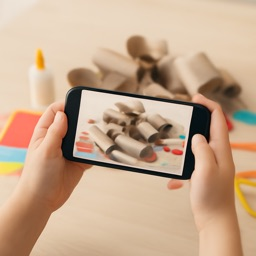
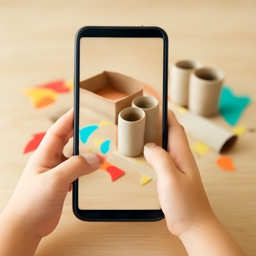
Give the front door some colour, and fix a three-legged pair of scissors
The scissors had three blades. The old path drew two crossing strokes
and then a third running off to the right, which no pair of scissors
has. It is two handles, two blades and a pivot now.

"What can we make?" is the first thing a seven-year-old sees and it
was set like a form field. Each word now has its own colour and its own
small tilt, and they drop in one after another. That needed two more
colours than pink: the amber and teal tokens were sitting unused and
neither can be read on white — 2.0:1 and 2.6:1 — so each gained an ink
variant of the same hue dark enough to carry text. The sentence under
it was written for a parent; it is shorter and plainer now.

TAKE and PICK carry photographs instead of line icons: one of a phone
being held over a table of odds and ends, one of a phone showing a
column of photographs to choose from. In the first set the phone was
turned on its side in every shot, which is not how anyone holds one to
photograph a table, so all three phone pictures were made again upright
and with craft materials on the screen rather than anything generic.

All of it is static and made once — 120KB of JPEG for six pictures, no
API calls at run time.

diff --git a/src/styles/make.css b/src/styles/make.css
@@ -23,8 +23,13 @@
   --edge: #b00b80;
   --hair: #f0d7e6;         /* magenta, most of the way to white */
 
+  /* Two more colours, so the app is not only pink. The bright pair are for
+     fills; the ink pair are the same hues dark enough to read as text on
+     white — #12b3a4 is 2.6:1 there and #f5a623 only 2.0:1. */
   --amber: #f5a623;
+  --amber-ink: #a8600a;
   --teal: #12b3a4;
+  --teal-ink: #0d7d72;
 
   --font: "Open Sans", -apple-system, BlinkMacSystemFont, system-ui, sans-serif;
 
@@ -99,6 +104,27 @@ img { max-width: 100%; }
 .hero p { margin: .6rem 0 0; font-size: 1.02rem; line-height: 1.45; color: var(--ink-2); max-width: 32ch; }
 .hero .btn { margin-top: .9rem; }
 
+/* The one place the app shouts. Each word gets its own colour and its own
+   small tilt, and they drop in one after another — this is the first thing a
+   seven-year-old sees, and it should not look like a form. */
+.shout span {
+  display: inline-block;
+  color: var(--tone);
+  transform: rotate(var(--tilt));
+  animation: wordIn .5s var(--ease) both;
+  animation-delay: var(--in);
+}
+.shout .w0 { --tilt: -3deg; --in: 0s;    --tone: var(--magenta); }
+.shout .w1 { --tilt: 2deg;  --in: .08s;  --tone: var(--teal-ink); }
+.shout .w2 { --tilt: -2deg; --in: .16s;  --tone: var(--amber-ink); }
+.shout .w3 { --tilt: 3deg;  --in: .24s;  --tone: var(--pink); }
+
+@keyframes wordIn {
+  0%   { opacity: 0; transform: translateY(-16px) rotate(var(--tilt)) scale(.8); }
+  65%  { opacity: 1; transform: translateY(4px) rotate(var(--tilt)) scale(1.04); }
+  100% { opacity: 1; transform: translateY(0) rotate(var(--tilt)) scale(1); }
+}
+
 .label {
   display: flex; align-items: center; justify-content: space-between; gap: 1rem;
   margin: 1.6rem 0 .7rem;
@@ -142,6 +168,10 @@ img { max-width: 100%; }
 .big-btn:active { transform: scale(.97); }
 .big-btn.is-second { background: var(--pink); }
 .big-btn svg { width: 46px; height: 46px; display: block; }
+.big-btn img {
+  display: block; width: 100%; max-width: 6rem; aspect-ratio: 1;
+  object-fit: cover; border-radius: 12px;
+}
 .big-btn span {
   font-weight: 800; font-size: clamp(1.5rem, 7vw, 2rem); letter-spacing: .04em; line-height: 1;
 }
@@ -623,4 +653,5 @@ img { max-width: 100%; }
   .confetti { display: none; }
   .done-mark { animation: none; }
   .sticker { animation-delay: 0ms !important; }
+  .shout span { animation: none; }
 }

diff --git a/src/components/PhotoStep.tsx b/src/components/PhotoStep.tsx
@@ -1,7 +1,6 @@
 import { useState } from 'react'
 import { toDataUrl } from '../lib/photo'
 import { TakePhoto } from './TakePhoto'
-import { CameraIcon, PictureIcon } from './icons'
 
 interface Props {
   onPhoto: (full: string, small: string) => void
@@ -58,12 +57,13 @@ export function PhotoStep({ onPhoto, looking }: Props) {
     >
       {/* TAKE and PICK, side by side and huge, as they are in the MAUI app */}
       <div className="big-pair">
+        {/* the pictures say what each one does faster than an icon can */}
         <TakePhoto source="camera" className="big-btn" onPhoto={take}>
-          <CameraIcon />
+          <img src="/how/take.jpg" alt="" width="96" height="96" />
           <span>TAKE</span>
         </TakePhoto>
         <TakePhoto source="library" className="big-btn is-second" onPhoto={take}>
-          <PictureIcon />
+          <img src="/how/pick.jpg" alt="" width="96" height="96" />
           <span>PICK</span>
         </TakePhoto>
       </div>

diff --git a/src/App.tsx b/src/App.tsx
@@ -177,8 +177,13 @@ export default function App() {
           {tab === 'table' && (!photo ? (
             <>
               <section className="hero">
-                <h1>What can we make?</h1>
-                <p>Photograph the odds and ends you have, and it will think of things to make with them.</p>
+                <h1 className="shout">
+                  <span className="w0">What</span>{' '}
+                  <span className="w1">can</span>{' '}
+                  <span className="w2">we</span>{' '}
+                  <span className="w3">make?</span>
+                </h1>
+                <p>Show it your bits and bobs, and it will think of things you can make.</p>
                 <button type="button" className="btn btn-small" onClick={() => setHow(true)}>
                   How it works
                 </button>

diff --git a/src/components/icons.tsx b/src/components/icons.tsx
@@ -31,11 +31,17 @@ export const PictureIcon = (p: Props) => (
   </svg>
 )
 
+/*
+ * Two handles, two blades, one pivot. The old one had a third stroke running
+ * off to the right — a blade that no pair of scissors has.
+ */
 export const ScissorsIcon = (p: Props) => (
   <svg {...base} {...p}>
-    <circle cx="6.5" cy="18" r="2.6" />
-    <circle cx="6.5" cy="6" r="2.6" />
-    <path d="M8.8 16.7 20 5.4M8.8 7.3 20 18.6M12.4 11.6 20 12" />
+    <circle cx="6.2" cy="18.6" r="2.5" />
+    <circle cx="17.8" cy="18.6" r="2.5" />
+    <path d="M8.1 17 17.1 4.2" />
+    <path d="M15.9 17 6.9 4.2" />
+    <circle cx="12" cy="10.6" r="1.05" />
   </svg>
 )
 
